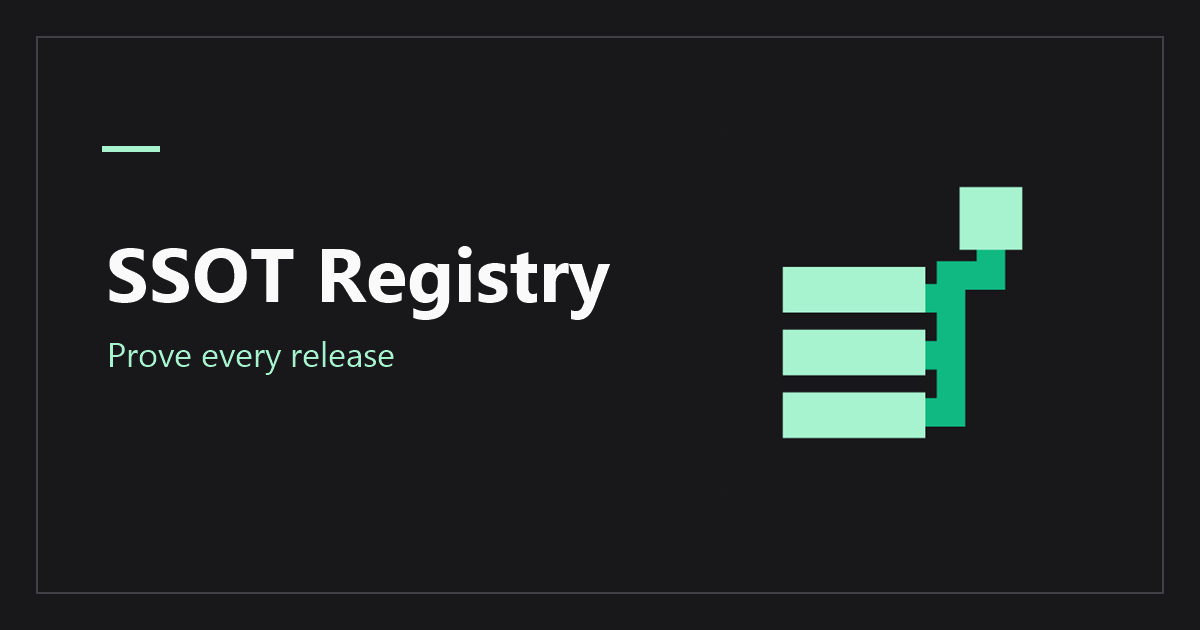
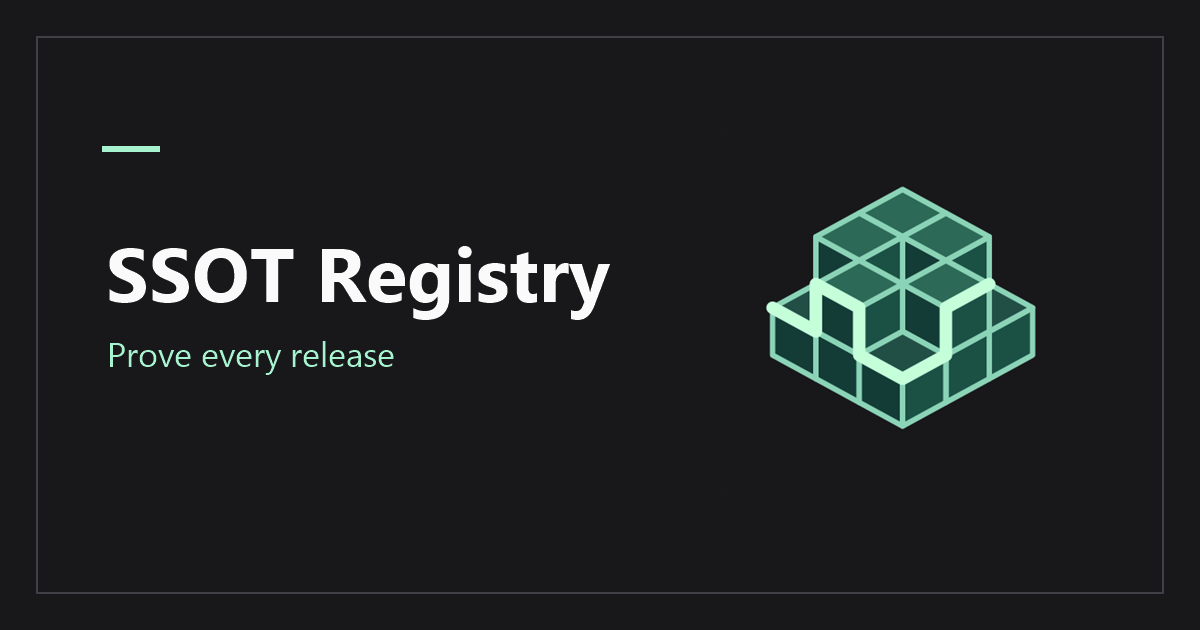
Use a cubic lattice for the SSOT Registry mark

Changed region(s): [[0.6167, 0.2714, 0.8633, 0.7238]]

diff --git a/index.html b/index.html
@@ -27,7 +27,7 @@
     <meta property="og:image:height" content="630" />
     <meta
       property="og:image:alt"
-      content="SSOT Registry wordmark and mint-green registry records linked to a single node."
+      content="SSOT Registry wordmark beside an emerald cubic lattice with a bright line tracing its stepped edge."
     />
 
     <meta name="twitter:card" content="summary_large_image" />
@@ -39,7 +39,7 @@
     <meta name="twitter:image" content="https://ssot-registry.com/og-image.png" />
     <meta
       name="twitter:image:alt"
-      content="SSOT Registry wordmark and mint-green registry records linked to a single node."
+      content="SSOT Registry wordmark beside an emerald cubic lattice with a bright line tracing its stepped edge."
     />
   </head>
   <body>
